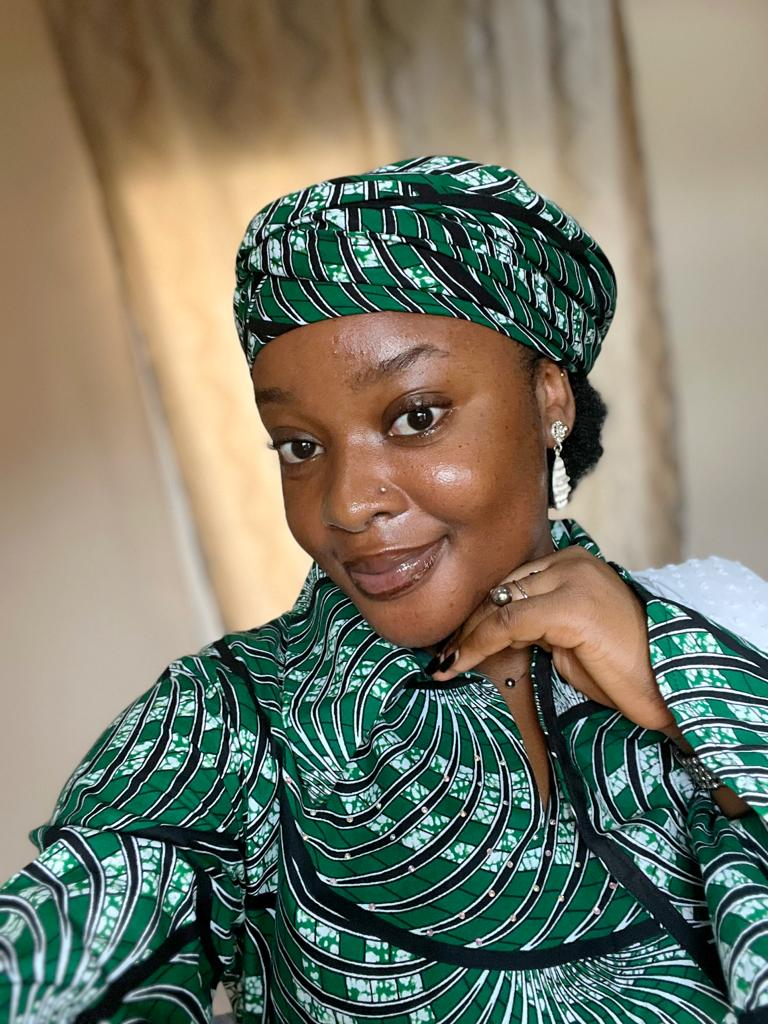
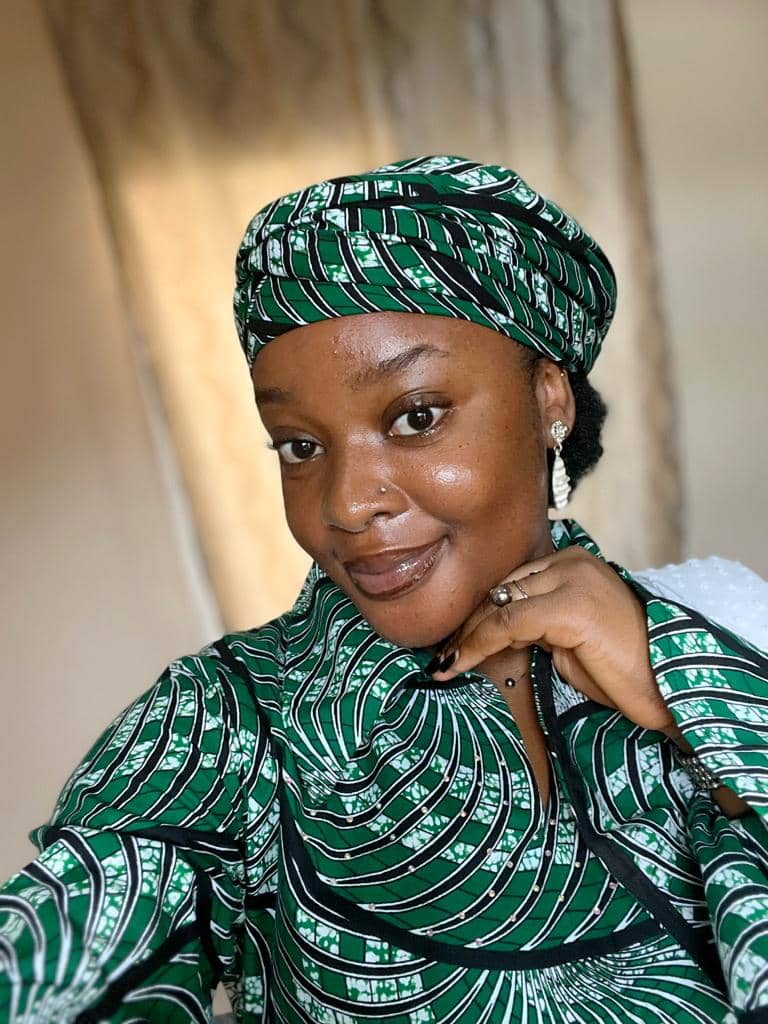
Fixed HOC authentication and image optimization

diff --git a/components/navbar/NavDesktop.tsx b/components/navbar/NavDesktop.tsx
@@ -20,7 +20,7 @@ const NavDesktop = () => {
   return (
     <>
       <nav className="font-nunito bg-white w-full border-b-[1px] border-b-gray-300 hidden lg:block fixed right-0 left-0 top-0 text-primary-text z-40 py-5">
-        <div className=" px-5 mx-auto max-w-[993px] xl:max-w-[1200px] xxl:px-0">
+        <div className="px-5 mx-auto max-w-[993px] xl:max-w-[1200px] xxl:px-0">
           <div className="flex justify-between items-center">
             <div className="flex items-center gap-12 xl:gap-16">
               <Link href="/">

diff --git a/utils/withAuth.tsx b/utils/withAuth.tsx
@@ -12,12 +12,12 @@ function withAuth<T extends {}>(
     const router = useRouter();
 
     useEffect(() => {
-      if (!user && !isAuthChecking) {
+      if (!isAuthChecking && isLoading) {
         router.push("/auth/login");
       }
-    }, [user, isAuthChecking, router]);
+    }, [isAuthChecking, router]);
 
-    if (isAuthChecking && isLoading) {
+    if (isLoading || isAuthChecking) {
       return (
         <div>
           <PageLoader />

diff --git a/contexts/authContext/Auth-Context.tsx b/contexts/authContext/Auth-Context.tsx
@@ -214,8 +214,14 @@ export const AuthProvider: React.FC<AuthProviderProps> = ({ children }) => {
   };
 
   useEffect(() => {
-    fetchUser();
+    const token = localStorage.getItem("token");
+    if (token ) {
+      fetchUser()
+    } else {
+      setIsAuthChecking(false)
+    }
   }, []);
+
 
   return (
     <AuthContext.Provider
